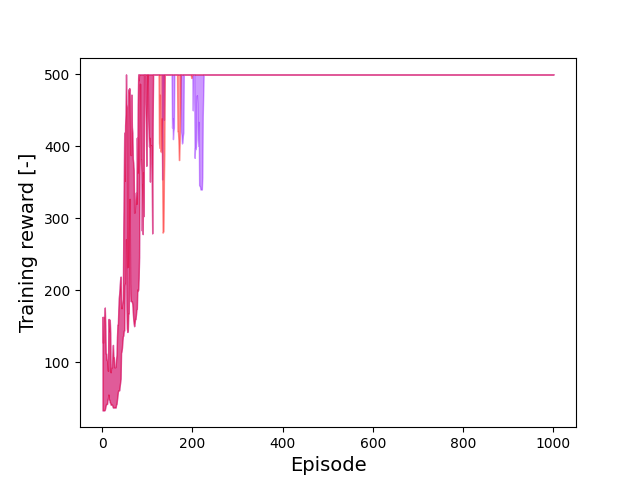
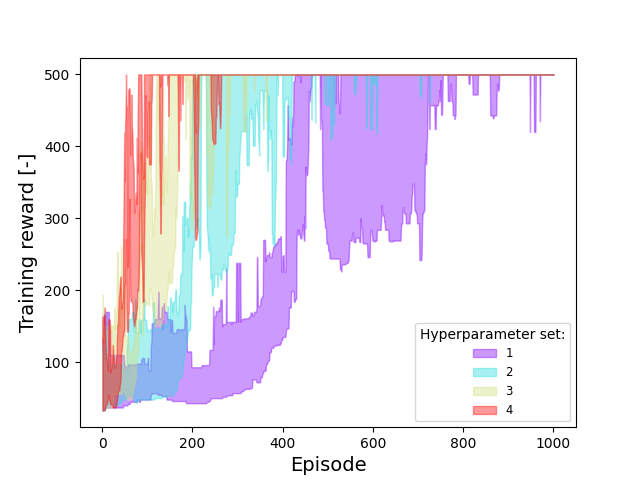
Finalized vmapping
Still: Why are the same hyperparameters and rng's leading to different results after 120 steps?

Changed region(s): [[0.1562, 0.1562, 0.7812, 0.875], [0.6562, 0.6875, 0.875, 0.875], [0.8125, 0.1562, 0.875, 0.2812]]

diff --git a/benchmarks/cartpole v1/cartpole_v1_ppo_vmap.py b/benchmarks/cartpole v1/cartpole_v1_ppo_vmap.py
@@ -36,14 +36,22 @@ if __name__ == '__main__':
 
     """Define optimizer parameters and training hyperparameters"""
     hyperparams = ppo.HyperParameters(
-        gamma=jnp.ones(2) * 0.99,
-        eps_clip=jnp.ones(2) * 0.2,
-        kl_threshold=jnp.ones(2) * 1e-5,
-        gae_lambda=jnp.ones(2) * 0.97,
-        ent_coeff=jnp.ones(2) * 0.0,
-        vf_coeff=jnp.ones(2) * 1.0,
-        actor_optimizer_params=ppo.OptimizerParams(learning_rate=jnp.ones(2) * 3e-4, eps=jnp.ones(2) * 1e-3, grad_clip=jnp.ones(2) * 1),
-        critic_optimizer_params=ppo.OptimizerParams(learning_rate=jnp.ones(2) * 1e-3, eps=jnp.ones(2) * 1e-3, grad_clip=jnp.ones(2) * 1)
+        gamma=jnp.array([0.99, 0.99, 0.99, 0.99]),
+        eps_clip=jnp.array([0.05, 0.1, 0.15, 0.2]),
+        kl_threshold=jnp.array([1e-8, 1e-7, 1e-6, 1e-5]),
+        gae_lambda=jnp.array([0.97, 0.97, 0.97, 0.97]),
+        ent_coeff=jnp.zeros(4),
+        vf_coeff=jnp.ones(4),
+        actor_optimizer_params=ppo.OptimizerParams(
+            learning_rate=jnp.array([5e-5, 1e-4, 2e-4, 3e-4]),
+            eps=jnp.ones(4)*1e-3,
+            grad_clip=jnp.ones(4)
+        ),
+        critic_optimizer_params=ppo.OptimizerParams(
+            learning_rate=jnp.array([1e-4, 2e-4, 5e-4, 1e-3]),
+            eps=jnp.ones(4)*1e-3,
+            grad_clip=jnp.ones(4)
+        )
     )
 
     rng = jax.random.PRNGKey(42)
@@ -77,8 +85,9 @@ if __name__ == '__main__':
     colors = cm.rainbow(np.linspace(0, 1, n_parallel))
     for i_parallel in range(n_parallel):
         plt.fill_between(np.arange(1, agent.config.n_steps+1), training_rewards.min[i_parallel],
-                         training_rewards.max[i_parallel], color=colors[i_parallel], alpha=0.4)
+                         training_rewards.max[i_parallel], color=colors[i_parallel], alpha=0.4, label=str(i_parallel+1))
     plt.xlabel("Episode", fontsize=14)
     plt.ylabel("Training reward [-]", fontsize=14)
+    plt.legend(title="Hyperparameter set:", fontsize="small")
     plt.close()
     fig.savefig(os.path.join(os.getcwd(), r'figures\PPO Clip training vmap.png'))

diff --git a/jaxagents/ppo.py b/jaxagents/ppo.py
@@ -336,7 +336,9 @@ class PPOAgentBase(ABC):
         last_state_value = critic_training.apply_fn(jax.lax.stop_gradient(critic_training.params), last_state)
 
         """Remove first entry so that the next state values per step are in sync with the state rewards."""
-        next_values_t = jnp.concatenate([traj_batch.value.squeeze(), last_state_value[..., jnp.newaxis]],axis=-1)[:, 1:]
+        next_values_t = jnp.concatenate(
+            [traj_batch.value.squeeze(), last_state_value[..., jnp.newaxis]],
+            axis=-1)[:, 1:]
 
         traj_batch = traj_batch._replace(next_value=next_values_t)
 
